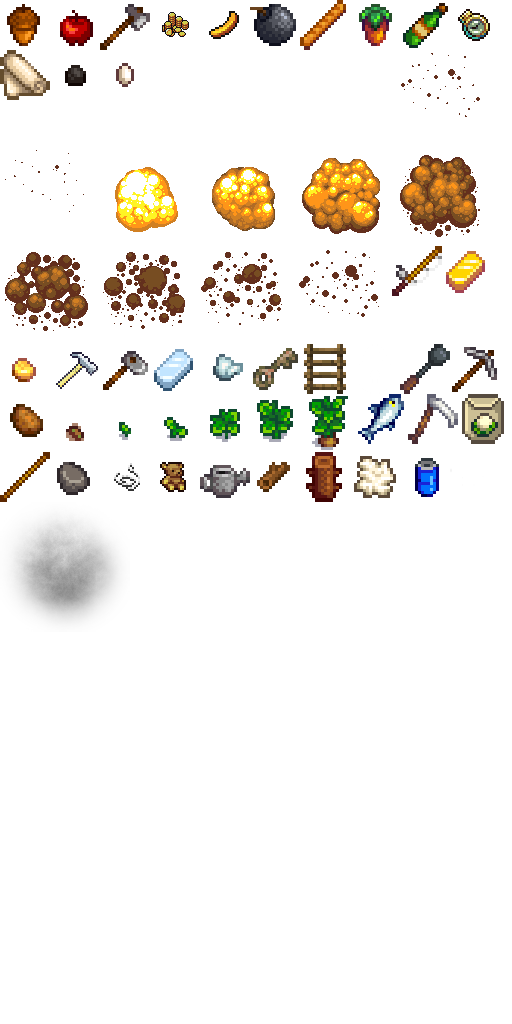
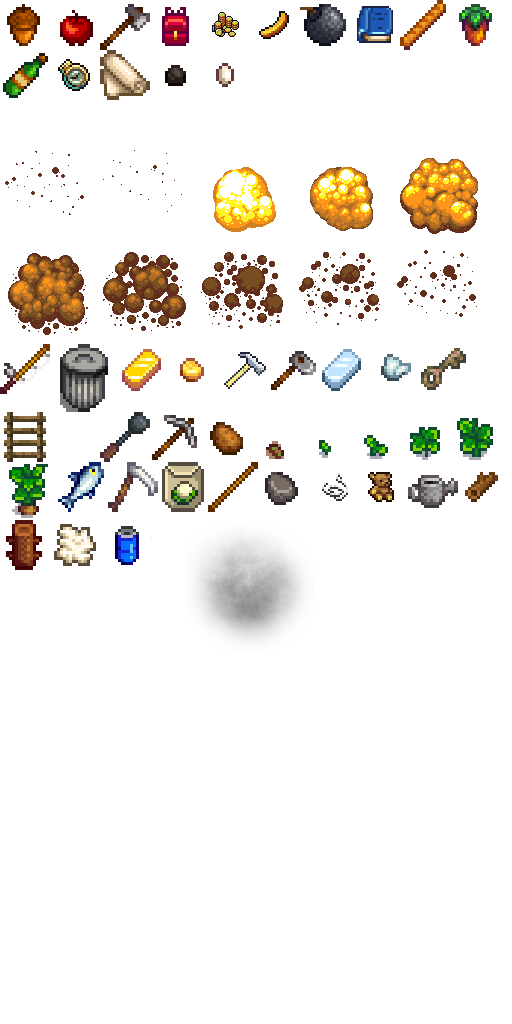
Misc updates

diff --git a/core/src/com/binarybrains/sprout/entity/Player.java b/core/src/com/binarybrains/sprout/entity/Player.java
@@ -19,6 +19,7 @@ import com.binarybrains.sprout.item.ResourceItem;
 import com.binarybrains.sprout.item.ToolItem;
 import com.binarybrains.sprout.item.resource.Resource;
 import com.binarybrains.sprout.item.tool.Tool;
+import com.binarybrains.sprout.item.tool.Tools;
 import com.binarybrains.sprout.level.Level;
 
 import java.lang.reflect.Field;
@@ -58,11 +59,11 @@ public class Player extends Npc implements InputProcessor {
         setSpeed(64);
 
         inventory = new Inventory(level, inventoryCapacity);
-        getInventory().add(new ToolItem(Tool.hoe, 0));
-        getInventory().add(new ToolItem(Tool.wateringcan, 0));
-        getInventory().add(new ToolItem(Tool.axe, 0));
-        getInventory().add(new ToolItem(Tool.pickaxe, 0));
-        getInventory().add(new ToolItem(Tool.mace, 0));
+        getInventory().add(new ToolItem(Tools.hoe, 0));
+        getInventory().add(new ToolItem(Tools.wateringcan, 0));
+        getInventory().add(new ToolItem(Tools.axe, 0));
+        getInventory().add(new ToolItem(Tools.pickaxe, 0));
+        getInventory().add(new ToolItem(Tools.mace, 0));
 
         getInventory().add(new ResourceItem(Resource.bomb,392));
         getInventory().add(new ResourceItem(Resource.ironOre, 40));

diff --git a/core/src/com/binarybrains/sprout/hud/inventory/InventoryManagementWindow.java b/core/src/com/binarybrains/sprout/hud/inventory/InventoryManagementWindow.java
@@ -8,6 +8,7 @@ import com.badlogic.gdx.math.MathUtils;
 import com.badlogic.gdx.scenes.scene2d.Actor;
 import com.badlogic.gdx.scenes.scene2d.InputEvent;
 import com.badlogic.gdx.scenes.scene2d.InputListener;
+import com.badlogic.gdx.scenes.scene2d.actions.Actions;
 import com.badlogic.gdx.scenes.scene2d.ui.*;
 import com.badlogic.gdx.scenes.scene2d.utils.ClickListener;
 import com.badlogic.gdx.utils.Align;
@@ -61,7 +62,7 @@ public class InventoryManagementWindow extends Dialog {
 
     private Button trashCan() {
 
-        Image image = new Image(atlas.findRegion("Empty")); // Trash Can todo
+        Image image = new Image(atlas.findRegion("Garbage_Can")); // Trash Can todo
         Button button = new Button(skin, "default");
         button.add(image);
 
@@ -70,7 +71,7 @@ public class InventoryManagementWindow extends Dialog {
             public void clicked(InputEvent event, float x, float y) {
                 if (getHeldItem() != null) {
                     setHeldItem(null);
-                    SproutGame.playSound("garbage_can", .4f, MathUtils.random(0.9f, 1.1f), 1f);
+                    SproutGame.playSound("garbage_can", .4f, MathUtils.random(0.8f, 1.1f), 1f);
                 }
             }
         });

diff --git a/core/src/com/binarybrains/sprout/item/tool/Tool.java b/core/src/com/binarybrains/sprout/item/tool/Tool.java
@@ -5,21 +5,7 @@ import com.badlogic.gdx.utils.TimeUtils;
 import com.binarybrains.sprout.level.tile.Tile;
 
 public abstract class Tool {
-
-    public static Hoe hoe = new Hoe();
-    public static Axe axe = new Axe();
-    public static PickAxe pickaxe = new PickAxe();
-    public static WateringCan wateringcan = new WateringCan();
-    public static Scythe scythe = new Scythe();
-    public static FishingPole fishingpole = new FishingPole();
-    public static Key goldenKey = new Key();
-    public static Hammer hammer = new Hammer();
-
-    // Weapons class/interface
-    public static Mace mace = new Mace();
-
-    // How should we handle consumable Tools... like keys?
-
+    
     public final String name;
     public final String description;
     private long lastUseTime = 0;

diff --git a/core/src/com/binarybrains/sprout/item/tool/Tools.java b/core/src/com/binarybrains/sprout/item/tool/Tools.java
@@ -1,0 +1,16 @@
+package com.binarybrains.sprout.item.tool;
+
+public class Tools {
+
+    public static Hoe hoe = new Hoe();
+    public static Axe axe = new Axe();
+    public static PickAxe pickaxe = new PickAxe();
+    public static WateringCan wateringcan = new WateringCan();
+    public static Scythe scythe = new Scythe();
+    public static FishingPole fishingpole = new FishingPole();
+    public static Key goldenKey = new Key();
+    public static Hammer hammer = new Hammer();
+
+    // Weapons
+    public static Mace mace = new Mace();
+}
